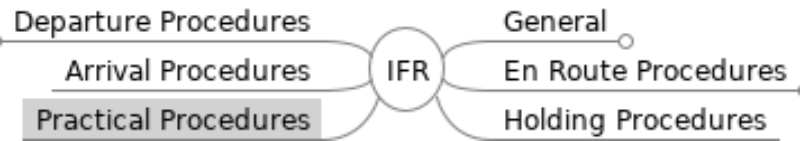
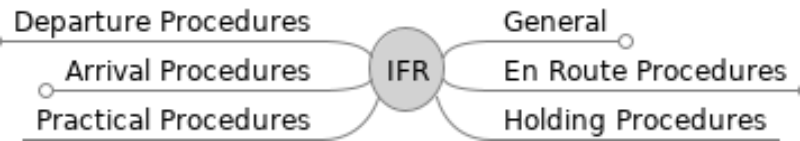
extended IFR mind map

Changed region(s): [[0.0312, 0.5674, 0.4062, 0.9929], [0.4375, 0.1986, 0.5625, 0.766]]

diff --git a/MIFR/IFR.mm b/MIFR/IFR.mm
@@ -398,7 +398,7 @@
 <node CREATED="1579644466100" ID="ID_1705369011" MODIFIED="1579644474483" TEXT="Departures from Uncontrolled Airports"/>
 <node CREATED="1579644760443" ID="ID_77314256" MODIFIED="1579644770079" TEXT="Alerting Service for Uncontrolled Airports"/>
 </node>
-<node CREATED="1579633433848" FOLDED="true" ID="ID_1247278460" MODIFIED="1579815780664" POSITION="right" TEXT="En Route Procedures">
+<node CREATED="1579633433848" FOLDED="true" ID="ID_1247278460" MODIFIED="1579902025466" POSITION="right" TEXT="En Route Procedures">
 <node CREATED="1579811215993" ID="ID_1170940779" MODIFIED="1579811219032" TEXT="Position Reports"/>
 <node CREATED="1579811805490" ID="ID_1221424960" MODIFIED="1579812031916">
 <richcontent TYPE="NODE"><html>
@@ -424,8 +424,7 @@
       </li>
     </ul>
   </body>
-</html>
-</richcontent>
+</html></richcontent>
 </node>
 <node CREATED="1579812064801" ID="ID_1599666678" MODIFIED="1579812068098" TEXT="Altitude Reports"/>
 <node CREATED="1579812268334" FOLDED="true" ID="ID_1339956055" MODIFIED="1579813319579" TEXT="Climb or Descent">
@@ -464,10 +463,9 @@
       </li>
     </ul>
   </body>
-</html>
-</richcontent>
+</html></richcontent>
 </node>
-<node CREATED="1579813700085" ID="ID_1129084101" MODIFIED="1579813705668" TEXT="ATC Assignment of Altitudes">
+<node CREATED="1579813700085" FOLDED="true" ID="ID_1129084101" MODIFIED="1579904549611" TEXT="ATC Assignment of Altitudes">
 <node CREATED="1579814173974" ID="ID_1577062654" MODIFIED="1579814179584" TEXT="Minimum IFR Altitude"/>
 <node CREATED="1579814200983" ID="ID_1216937735" MODIFIED="1579814663894">
 <richcontent TYPE="NODE"><html>
@@ -490,8 +488,7 @@
       </li>
     </ul>
   </body>
-</html>
-</richcontent>
+</html></richcontent>
 </node>
 </node>
 <node CREATED="1579814734237" ID="ID_1535449685" MODIFIED="1579815049227">
@@ -521,8 +518,7 @@
       </li>
     </ul>
   </body>
-</html>
-</richcontent>
+</html></richcontent>
 </node>
 <node CREATED="1579815238411" ID="ID_1474722692" MODIFIED="1579815247343" TEXT="Clearances - Leaving or Entering Controlled Airspace"/>
 <node CREATED="1579815331121" ID="ID_1845828154" MODIFIED="1579815335324" TEXT="Clearance Limit"/>
@@ -553,11 +549,116 @@
       </li>
     </ul>
   </body>
+</html></richcontent>
+</node>
+</node>
+<node CREATED="1579633454131" FOLDED="true" ID="ID_307271175" MODIFIED="1579904549620" POSITION="left" TEXT="Arrival Procedures">
+<node CREATED="1579902070142" ID="ID_1679347722" MODIFIED="1579902074522" TEXT="ATIS Broadcasts"/>
+<node CREATED="1579902101136" FOLDED="true" ID="ID_1440343756" MODIFIED="1579904549619" TEXT="STAR, MSA, and TAA">
+<node CREATED="1579902238003" ID="ID_1587614557" MODIFIED="1579902286271">
+<richcontent TYPE="NODE"><html>
+  <head>
+    
+  </head>
+  <body>
+    <p>
+      MSA
+    </p>
+    <p>
+      
+    </p>
+    <ul>
+      <li>
+        <b>1000</b>&#160;ft obstacle clearance within a sector of a <b>25</b>&#160;NM circle
+      </li>
+    </ul>
+  </body>
+</html>
+</richcontent>
+</node>
+<node CREATED="1579902341158" ID="ID_1761658528" MODIFIED="1579902867806">
+<richcontent TYPE="NODE"><html>
+  <head>
+    
+  </head>
+  <body>
+    <p>
+      TAA
+    </p>
+    <p>
+      
+    </p>
+    <ul>
+      <li>
+        intended for FMS or GNSS equipped aircraft
+      </li>
+      <li>
+        may include step-down arcs and sectors for lower minimums
+      </li>
+      <li>
+        <b>1000</b>&#160;ft obstacle clearance
+      </li>
+      <li>
+        basic T with three areas: straight-in, left-base, right-base
+      </li>
+      <li>
+        alternative procedure designs: Y, L, I shapes
+      </li>
+    </ul>
+  </body>
+</html>
+</richcontent>
+</node>
+<node CREATED="1579902359091" ID="ID_1858405094" MODIFIED="1579904234297">
+<richcontent TYPE="NODE"><html>
+  <head>
+    
+  </head>
+  <body>
+    <p>
+      STAR
+    </p>
+    <p>
+      
+    </p>
+    <ul>
+      <li>
+        STAR clearance need not to be accepted
+      </li>
+      <li>
+        ATC will issue alternative clearance if unable to accept STAR
+      </li>
+      <li>
+        conventional vs. performance-based navigation (PBN) STARs
+      </li>
+      <li>
+        STAR or STAR (RNAV)
+      </li>
+      <li>
+        FLP 18: RMK/NO RNAV STAR if not authorized PBN STAR
+      </li>
+      <li>
+        lateral clearance on STAR is implicit
+      </li>
+      <li>
+        vertical clearance on STAR needs to be obtained from ATC
+      </li>
+      <li>
+        STAR vertical restrictions remain mandatory
+      </li>
+      <li>
+        STAR speed restrictions are mandatory
+      </li>
+      <li>
+        ATC speed restrictions override STAR speed restrictions
+      </li>
+    </ul>
+  </body>
 </html>
 </richcontent>
 </node>
 </node>
-<node CREATED="1579633454131" ID="ID_307271175" MODIFIED="1579633457973" POSITION="left" TEXT="Arrival Procedures"/>
+</node>
 <node CREATED="1579633476953" ID="ID_66824391" MODIFIED="1579633482399" POSITION="right" TEXT="Holding Procedures"/>
 <node CREATED="1579815802154" ID="ID_971957458" MODIFIED="1579815814323" POSITION="left" TEXT="Practical Procedures"/>
 </node>
